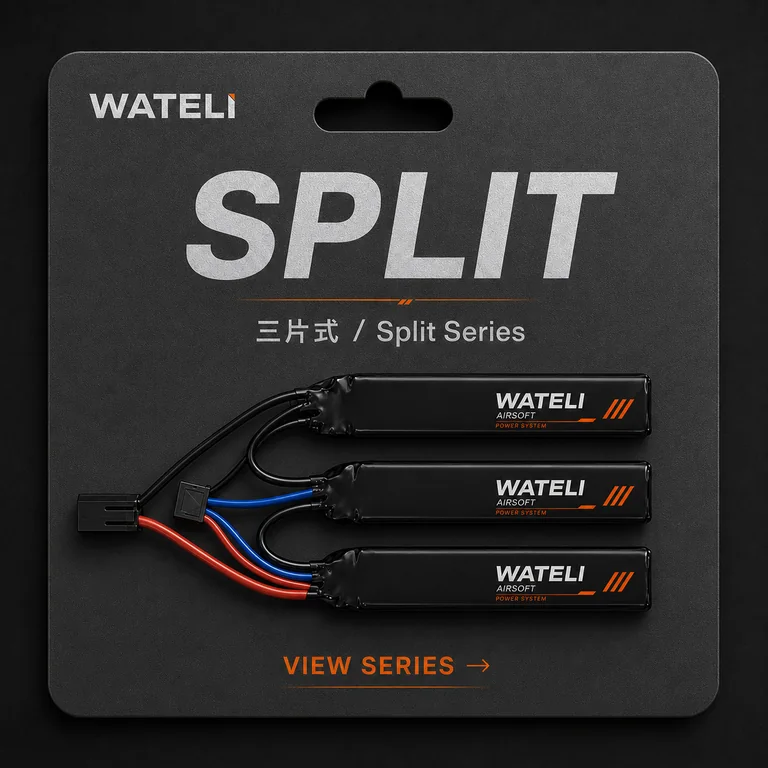
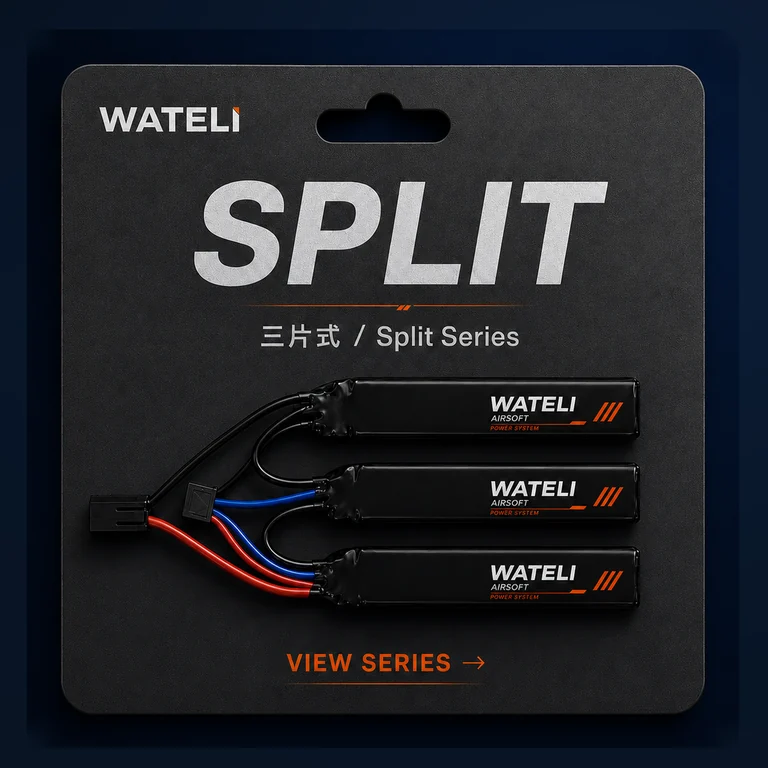
update card fina

diff --git a/assets/data/i18n/translations.js b/assets/data/i18n/translations.js
@@ -206,7 +206,7 @@ window.WATELI_TRANSLATIONS = {
     'product.quick_info': 'Quick Info', 'product.view_detail': 'View Detail', 'product.choose_action': 'Choose an action for quick info or full detail.',
     'quickinfo.dialog_label': 'Quick Info', 'quickinfo.close': 'Close', 'quickinfo.main_image_area': 'MAIN IMAGE AREA', 'quickinfo.static_thumbnail_area': 'Static thumbnail area', 'quickinfo.capacity': 'CAPACITY LIST', 'quickinfo.model_description': 'MODEL / DESCRIPTION', 'quickinfo.title': 'WATELI SLIM', 'quickinfo.description': 'Static 1:1 Quick Info structure for layout validation only.',
     products_card_block_desc: 'Li-Po · 7.4V / 11.1V', products_card_block_capacity: '1300mAh', products_card_block_image_alt: 'WATELI block battery',
-    products_entry_heading: 'Choose Battery Style', products_entry_subtitle: 'Select the right series by shape and installation space', products_entry_block_title: 'Block', products_entry_slim_title: 'Slim', products_entry_split_title: 'Split', products_entry_stick_title: 'Stick', products_entry_twin_title: 'Twin',
+    products_entry_heading: 'Choose Battery Style', products_entry_block_title: 'Block', products_entry_slim_title: 'Slim', products_entry_split_title: 'Split', products_entry_stick_title: 'Stick', products_entry_twin_title: 'Twin',
     products_card_slim_desc: 'Li-Po · 7.4V / 11.1V', products_card_slim_capacity: '7.4V · 950 / 1000 / 1200mAh · 11.1V · 780 / 950 / 1000 / 1200mAh', products_card_slim_image_alt: 'WATELI slim battery',
     products_card_split_desc: 'Li-Po · 7.4V / 11.1V', products_card_split_capacity: '7.4V · 1000mAh · 11.1V · 950 / 1000 / 1200mAh', products_card_split_image_alt: 'WATELI split battery',
     products_card_stick_desc: 'Li-Po · 11.1V', products_card_stick_capacity: '1000mAh', products_card_stick_image_alt: 'WATELI stick battery',
@@ -502,7 +502,7 @@ about_core_title: 'WATELI Core',
     'product.quick_info': '快速資訊', 'product.view_detail': '查看詳情', 'product.choose_action': '選擇操作以查看資訊或完整詳情。',
     'quickinfo.dialog_label': '快速資訊', 'quickinfo.close': '關閉', 'quickinfo.main_image_area': '主圖區', 'quickinfo.static_thumbnail_area': '靜態縮圖區', 'quickinfo.capacity': '容量列表', 'quickinfo.model_description': '型號 / 說明', 'quickinfo.title': 'WATELI 單體', 'quickinfo.description': '靜態 1:1 Quick Info 結構，僅供版面驗證使用。',
     products_card_block_desc: 'Li-Po · 7.4V / 11.1V', products_card_block_capacity: '1300mAh', products_card_block_image_alt: 'WATELI 方塊型電池',
-    products_entry_heading: '選擇電池款式', products_entry_subtitle: '依外型與安裝空間選擇適合系列', products_entry_block_title: '方塊型', products_entry_slim_title: '單體型', products_entry_split_title: '三片式', products_entry_stick_title: '細長型', products_entry_twin_title: '雙胞胎',
+    products_entry_heading: '選擇電池款式', products_entry_block_title: '方塊型', products_entry_slim_title: '單體型', products_entry_split_title: '三片式', products_entry_stick_title: '細長型', products_entry_twin_title: '雙胞胎',
     products_card_slim_desc: 'Li-Po · 7.4V / 11.1V', products_card_slim_capacity: '7.4V · 950 / 1000 / 1200mAh · 11.1V · 780 / 950 / 1000 / 1200mAh', products_card_slim_image_alt: 'WATELI 單體電池',
     products_card_split_desc: 'Li-Po · 7.4V / 11.1V', products_card_split_capacity: '7.4V · 1000mAh · 11.1V · 950 / 1000 / 1200mAh', products_card_split_image_alt: 'WATELI 三片式電池',
     products_card_stick_desc: 'Li-Po · 11.1V', products_card_stick_capacity: '1000mAh', products_card_stick_image_alt: 'WATELI 細長型電池',

diff --git a/assets/css/pages/products.css b/assets/css/pages/products.css
@@ -4719,3 +4719,96 @@ html[data-lang-switching="0"] body.page-template--products main.products-page {
     transform: none !important;
   }
 }
+
+/* R22N products entry card layer flat
+   Scope: products.html entry cards only.
+   Purpose: let prepared 1:1 entry artwork become the primary visual while reducing the outer card/container layer.
+   Protected: no image file, preload, src/srcset/sizes/width/height changes. */
+.page-template--products .products-grid {
+  align-items: start;
+  gap: clamp(14px, 2vw, 24px);
+}
+
+.page-template--products .products-grid > .type-card.panel,
+.page-template--products .products-grid > .type-card.panel:hover,
+.page-template--products .products-grid > .type-card.panel:active,
+.page-template--products .products-grid > .type-card.panel:focus {
+  padding: 0;
+  border-color: transparent;
+  background: transparent;
+  box-shadow: none;
+  transform: none;
+  transition: none;
+}
+
+.page-template--products .products-grid > .type-card > .card-image {
+  display: block;
+  width: 100%;
+  aspect-ratio: 1 / 1;
+  border: 0;
+  border-radius: 0;
+  background: transparent;
+  overflow: visible;
+}
+
+.page-template--products .products-grid > .type-card > .card-image img {
+  display: block;
+  width: 100%;
+  height: auto;
+  max-width: 100%;
+  object-fit: contain;
+  object-position: center center;
+}
+
+.page-template--products .products-grid > .type-card > .card-content {
+  margin-top: 10px;
+  padding: 0 4px;
+  text-align: center;
+}
+
+.page-template--products .products-grid > .type-card .type-card__title {
+  color: rgba(232, 240, 255, 0.70);
+  font-size: clamp(14px, 1.4vw, 16px);
+  font-weight: 700;
+  line-height: 1.28;
+  letter-spacing: 0.02em;
+}
+
+.page-template--products .products-grid > .type-card:hover > .card-image,
+.page-template--products .products-grid > .type-card:focus-visible > .card-image {
+  transform: translateY(-2px);
+  transition: transform 160ms ease;
+}
+
+@media (max-width: 680px) {
+  .page-template--products .products-grid {
+    gap: 16px;
+  }
+
+  .page-template--products .products-grid > .type-card > .card-content {
+    margin-top: 8px;
+  }
+
+  .page-template--products .products-grid > .type-card .type-card__title {
+    font-size: 14px;
+  }
+}
+
+/* R22N-B products entry card shadow residue fix
+   Scope: products.html five entry cards only.
+   Purpose: remove old .type-card.panel shadow/frame residue without touching images, preload, or entry markup. */
+.page-template--products .products-grid > .type-card.panel,
+.page-template--products .products-grid > .type-card.panel:hover,
+.page-template--products .products-grid > .type-card.panel:active,
+.page-template--products .products-grid > .type-card.panel:focus {
+  background: transparent !important;
+  border-color: transparent !important;
+  box-shadow: none !important;
+}
+
+.page-template--products .products-grid > .type-card > .card-image {
+  background: transparent !important;
+  border: 0 !important;
+  box-shadow: none !important;
+}
+

diff --git a/products.html b/products.html
@@ -35,14 +35,6 @@
       flex-direction: column;
       gap: 18px;
     }
-    .page-template--products .products-overview__header {
-      display: flex;
-      flex-direction: column;
-      align-items: center;
-      gap: 8px;
-      margin: 0;
-      text-align: center;
-    }
     .page-template--products .products-overview__title {
       margin: 0;
       color: var(--text-on-dark);
@@ -51,14 +43,14 @@
       line-height: 1.15;
       text-align: center;
     }
-    .page-template--products .products-overview__subtitle {
-      margin: 0;
+    .page-template--products .products-overview__lead {
+      margin: -6px auto 0;
+      max-width: 34em;
       color: rgba(214, 221, 229, 0.68);
       font-size: 15px;
-      font-weight: 500;
       line-height: 1.55;
-      letter-spacing: 0.02em;
       text-align: center;
+      letter-spacing: 0.01em;
     }
     @media (max-width: 680px) {
       .page-template--products .products-page {
@@ -67,19 +59,17 @@
       .page-template--products .products-overview > .container {
         gap: 12px;
       }
-      .page-template--products .products-overview__header {
-        gap: 6px;
-        margin-bottom: 2px;
-      }
       .page-template--products .products-overview__title {
-        font-size: clamp(26px, 7.2vw, 30px);
-        line-height: 1.16;
+        font-size: clamp(26px, 7.4vw, 30px);
+        line-height: 1.14;
         letter-spacing: -0.025em;
       }
-      .page-template--products .products-overview__subtitle {
-        max-width: 18em;
+      .page-template--products .products-overview__lead {
+        margin-top: -4px;
+        max-width: 22em;
         font-size: 14px;
         line-height: 1.45;
+        color: rgba(214, 221, 229, 0.62);
       }
     }
   </style>
@@ -91,10 +81,8 @@
 
     <section class="products-overview">
       <div class="container">
-        <header class="products-overview__header">
-          <h1 class="products-overview__title" data-i18n="products_entry_heading">選擇電池款式</h1>
-          <p class="products-overview__subtitle" data-i18n="products_entry_subtitle">依外型與安裝空間選擇適合系列</p>
-        </header>
+        <h1 class="products-overview__title" data-i18n="products_entry_heading">選擇電池款式</h1>
+        <p class="products-overview__lead" data-i18n="home_v110_series_eyebrow">依外型與安裝空間選擇適合系列</p>
         <div class="products-grid">
           <a class="panel type-card" href="products-block.html">
             <div class="card-image">

diff --git a/assets/css/pages/home-v2.css b/assets/css/pages/home-v2.css
@@ -518,14 +518,13 @@
   }
 }
 
-/* R22M: Mobile Product Series Title Rhythm
-   Scope: homepage mobile Product Series heading/subtitle only.
-   Goal: title behaves as navigation, not HERO; images remain the focus.
-   Does not change product entry images, mobile swipe grid, HERO, W2B, or desktop layout.
+/* R22M-D: Mobile Product Series title rhythm manifest-lock
+   Scope: mobile product-series title text only.
+   Protected: entry images, grid swipe, image sources, preload and SKU/PDI flows untouched.
 */
 @media (max-width: 640px) {
   .page-template--home-v2 .home-product-series {
-    padding-top: 36px;
+    padding-top: 42px;
   }
 
   .page-template--home-v2 .home-product-series__header {
@@ -534,17 +533,20 @@
 
   .page-template--home-v2 .home-product-series__title {
     max-width: none;
-    font-size: clamp(26px, 7.2vw, 30px);
-    line-height: 1.16;
+    font-size: clamp(26px, 7.4vw, 30px);
+    font-weight: 760;
+    line-height: 1.14;
     letter-spacing: -0.025em;
+    white-space: normal;
     text-shadow: none;
   }
 
   .page-template--home-v2 .home-product-series__lead {
-    max-width: 18em;
     margin-top: 7px;
+    max-width: 22em;
     font-size: 14px;
     line-height: 1.45;
-    color: rgba(214, 221, 229, 0.68);
+    letter-spacing: 0.01em;
+    color: rgba(214, 221, 229, 0.62);
   }
 }
